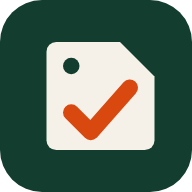
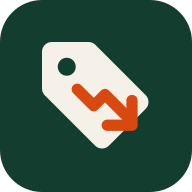
3.5.1: Herkese açık site ve Telegram kanalı Düşero markasına geçti
- Varsayılan site adı Düşero; kayıtlı ayarda eski varsayılan (Teyitli Fırsat) varsa açılışta otomatik geçiş
- Yeni ikon (fiyatı düşen etiket), 192/512 PNG yeniden üretildi
- Telegram paylaşımlarına Düşero imzası
- Kurulum metni, README ve testler güncellendi (28 test geçiyor)

Claude-Session: https://claude.ai/code/session_01BGhwwfiTN87e9gj1dD7XfM

diff --git a/yayin.py b/yayin.py
@@ -1,5 +1,5 @@
 # -*- coding: utf-8 -*-
-"""Kasım Fırsatları — herkese açık site yayıncısı (Teyitli Fırsat).
+"""Kasım Fırsatları — herkese açık site yayıncısı (Düşero).
 
 Bilgisayardaki program mağazada doğruladığı fırsatları buradan herkese açık siteye gönderir:
   1. Seçim     : yalnızca mağazada fiyatı teyit edilmiş, gerçekten indirimli, taze ürünler
@@ -30,12 +30,13 @@ TAZE_SN = 6 * 3600               # mağazadaki teyidi bundan eski ürün yayınd
 EN_FAZLA_URUN = 150
 EN_DUSUK_INDIRIM = 10            # %10'dan az indirim "fırsat" sayılmaz (dip fiyat / Akakçe en ucuzu hariç)
 TELEGRAM_TUR_BASINA = 8
+ESKI_SITE_ADLARI = {"Teyitli Fırsat"}   # eski varsayılan ad; kayıtlı ayarda buysa Düşero'ya geçilir
 VARSAYILAN = {
-    "site_adi": "Teyitli Fırsat",
+    "site_adi": "Düşero",
     "slogan": "Fiyatı mağazada teyit edilmiş indirimler",
     "github": {"depo": "", "token": "", "dal": "main"},
     "iletisim": "",               # yasal sayfada görünen e-posta (içerik kaldırma talepleri için)
-    "alan_adi": "",               # özel alan adı (ör. teyitlifirsat.com); boşsa github.io adresi
+    "alan_adi": "",               # özel alan adı (ör. dusero.com); boşsa github.io adresi
     "telegram": {"bot_token": "", "kanal": ""},
     # Mağaza başına ortaklık ayarı. İki biçim:
     #   {"param": {"tag": "ornek-21"}}                       → linke parametre eklenir
@@ -268,7 +269,8 @@ def telegram_metni(o, site_adi):
     if o.get("kosul"):
         satirlar.append(f"⚠ {html.escape(o['kosul'])}")
     satirlar += ["", f'<a href="{html.escape(o["link"])}">👉 Mağazada gör</a>']
-    satirlar.append("<i>Fiyat ve stok anlık değişebilir.</i>" + (" #işbirliği" if o.get("ortaklik") else ""))
+    satirlar.append(f"🔻 <b>{html.escape(site_adi or VARSAYILAN['site_adi'])}</b> · <i>Fiyat ve stok anlık değişebilir.</i>"
+                    + (" #işbirliği" if o.get("ortaklik") else ""))
     return "\n".join(satirlar)
 
 
@@ -291,6 +293,14 @@ def telegram_gonder(tg, o, site_adi):
 # ---------------------------------------------------------------------------
 # Yayıncı
 # ---------------------------------------------------------------------------
+def marka_guncelle(ayar):
+    """Eski varsayılan site adını (Teyitli Fırsat) Düşero yapar. Kullanıcının kendi koyduğu ada dokunmaz."""
+    if (ayar.get("site_adi") or "").strip() in ESKI_SITE_ADLARI:
+        ayar["site_adi"] = VARSAYILAN["site_adi"]
+        return True
+    return False
+
+
 class Yayinci:
     def __init__(self, depo, veri_dizini, sablon_dizini, surum):
         self.depo, self.sablon, self.surum = depo, sablon_dizini, surum
@@ -299,6 +309,8 @@ class Yayinci:
         self.ayar = self._oku(self.ayar_yolu, {})
         for k, v in VARSAYILAN.items():
             self.ayar.setdefault(k, json.loads(json.dumps(v)))
+        if marka_guncelle(self.ayar) and os.path.exists(self.ayar_yolu):
+            self.ayarlari_kaydet()
         self.durum = self._oku(self.durum_yolu, {"hashler": {}, "ozet": None, "son": 0, "gonderilen": {}})
         self.son_hata, self.son_sayi = None, 0
         self.tetik = threading.Event()
@@ -422,6 +434,7 @@ def kurulum_sihirbazi(veri_dizini):
     ayar = Yayinci._oku(yol, {})
     for k, v in VARSAYILAN.items():
         ayar.setdefault(k, json.loads(json.dumps(v)))
+    marka_guncelle(ayar)
 
     def sor(soru, mevcut="", gizli=False):
         ipucu = f" [{'(kayıtlı)' if gizli and mevcut else mevcut}]" if mevcut else ""
@@ -430,13 +443,13 @@ def kurulum_sihirbazi(veri_dizini):
 
     print("\n=== Herkese açık site kurulumu ===  (boş bırakırsanız köşeli parantezdeki değer kalır)\n")
     ayar["site_adi"] = sor("Site adı", ayar["site_adi"])
-    ayar["github"]["depo"] = sor("GitHub deposu (kullanıcı/depo, ör. ftastan33-beep/teyitli-firsat)", ayar["github"]["depo"])
+    ayar["github"]["depo"] = sor("GitHub deposu (kullanıcı/depo, ör. ftastan33-beep/dusero)", ayar["github"]["depo"])
     ayar["github"]["token"] = sor("GitHub anahtarı (yapıştırın, ekranda görünmez)", ayar["github"]["token"], gizli=True)
     ayar["iletisim"] = sor("Sitede görünecek iletişim e-postası", ayar.get("iletisim", ""))
     ayar["alan_adi"] = sor("Özel alan adı (yoksa boş geçin)", ayar.get("alan_adi", ""))
     if input("Telegram kanalına da otomatik paylaşılsın mı? (e/h) [h]: ").strip().lower().startswith("e"):
         ayar["telegram"]["bot_token"] = sor("Telegram bot anahtarı (BotFather'dan)", ayar["telegram"]["bot_token"], gizli=True)
-        ayar["telegram"]["kanal"] = sor("Kanal kullanıcı adı (ör. @teyitlifirsat)", ayar["telegram"]["kanal"])
+        ayar["telegram"]["kanal"] = sor("Kanal kullanıcı adı (ör. @dusero)", ayar["telegram"]["kanal"])
     print("\nGitHub bağlantısı deneniyor...")
     try:
         d = _gh(ayar["github"]["token"], "GET", f"/repos/{ayar['github']['depo']}")

diff --git a/tests/test_yayin.py b/tests/test_yayin.py
@@ -90,15 +90,15 @@ class Secim(unittest.TestCase):
 
 class Site(unittest.TestCase):
     def test_dosyalar_ve_yer_tutucular(self):
-        ayar = dict(yayin.VARSAYILAN, telegram={"kanal": "@teyitli", "bot_token": ""}, iletisim="info@ornek.com")
+        ayar = dict(yayin.VARSAYILAN, telegram={"kanal": "@dusero", "bot_token": ""}, iletisim="info@ornek.com")
         d = yayin.site_dosyalari(SABLON, ayar, yayin.yayin_listesi([ornek()], {}), "3.1")
         for yol in ("index.html", "app.js", "sw.js", "stil.css", "manifest.webmanifest", "ikon-192.png", "yasal.html", "veri.json", ".nojekyll"):
             self.assertIn(yol, d)
         for yol, icerik in d.items():
             if yol.endswith((".html", ".js", ".css", ".webmanifest")):
                 self.assertNotIn(b"{{", icerik, yol)
-        self.assertIn("Teyitli Fırsat".encode(), d["index.html"])
-        self.assertIn(b"t.me/teyitli", d["index.html"])
+        self.assertIn("Düşero".encode(), d["index.html"])
+        self.assertIn(b"t.me/dusero", d["index.html"])
         self.assertIn(b"mailto:info@ornek.com", d["yasal.html"])
         self.assertEqual(len(json.loads(d["veri.json"])["urunler"]), 1)
 
@@ -156,6 +156,32 @@ class Yukleme(unittest.TestCase):
             yayin.github_yukle, yayin.telegram_gonder = eski_y, eski_t
         self.assertIn("index.html", yuklenen[0])
         self.assertEqual(gonderilen, [])                      # ilk çalıştırmada eldeki liste kanala dökülmez
+
+
+class Marka(unittest.TestCase):
+    def test_eski_varsayilan_ad_duseroya_gecer(self):
+        ayar = {"site_adi": "Teyitli Fırsat"}
+        self.assertTrue(yayin.marka_guncelle(ayar))
+        self.assertEqual(ayar["site_adi"], "Düşero")
+
+    def test_kullanicinin_kendi_adina_dokunulmaz(self):
+        ayar = {"site_adi": "Benim Sitem"}
+        self.assertFalse(yayin.marka_guncelle(ayar))
+        self.assertEqual(ayar["site_adi"], "Benim Sitem")
+
+    def test_kayitli_ayar_acilista_guncellenir(self):
+        import tempfile
+        with tempfile.TemporaryDirectory() as d:
+            with open(os.path.join(d, "yayin.json"), "w", encoding="utf-8") as f:
+                json.dump({"site_adi": "Teyitli Fırsat", "slogan": "x"}, f)
+            y = yayin.Yayinci(None, d, SABLON, "3.5.1")
+            self.assertEqual(y.ayar["site_adi"], "Düşero")
+            with open(os.path.join(d, "yayin.json"), encoding="utf-8") as f:
+                self.assertEqual(json.load(f)["site_adi"], "Düşero")
+
+    def test_telegram_mesajinda_marka(self):
+        o = yayin.yayin_listesi([ornek()], {})[0]
+        self.assertIn("Düşero", yayin.telegram_metni(o, "Düşero"))
 
 
 if __name__ == "__main__":

diff --git a/kasim_firsat.py b/kasim_firsat.py
@@ -51,7 +51,7 @@ from email.utils import parsedate_to_datetime
 from http.cookies import SimpleCookie
 from http.server import BaseHTTPRequestHandler, ThreadingHTTPServer
 
-SURUM = "3.5"
+SURUM = "3.5.1"
 GITHUB_ACTIONS = bool(os.environ.get("GITHUB_ACTIONS"))   # GitHub sunucusunda mı çalışıyor (veri merkezi IP'si)
 VARSAYILAN_PORT = 8765
 VERI_DIZINI = os.environ.get("KASIM_FIRSAT_DIZIN") or os.path.join(os.path.expanduser("~"), ".kasim_firsat")

diff --git a/README.md b/README.md
@@ -76,7 +76,7 @@ Ortam değişkenleri: `KF_DOGRULAMA_SN` (sitede doğrulamaya ayrılan süre, var
 
 Testler: `python -m unittest discover -s tests -v`
 
-## 3.2 — Herkese açık site ve uygulama (Teyitli Fırsat)
+## 3.2 — Herkese açık site ve uygulama (Düşero)
 
 Bilgisayardaki program doğruladığı fırsatları 10 dakikada bir herkese açık siteye gönderir (`yayin.py`, şablon `site/`).
 Site GitHub Pages'te ücretsiz yayınlanır ve telefona uygulama olarak (PWA) kurulabilir.
@@ -172,3 +172,12 @@ fiyat geçmişi girdileri ve karşılaştırmalar bir kez silinir, sonraki yenil
 - Programın fiyat kaydına göre indirim artık tek bir uç değere değil, kayıtların ortancasına göre hesaplanır. Az kayıtla
   %50+ çıkan oranlar (genelde farklı paket/varyant) indirim sayılmaz, “kontrol et” olarak işaretlenir.
 - Başlığı yalnızca bağlantı (“🛒 https://…”) olan paylaşımlarda ürün adı doğru satırdan alınır.
+
+## 3.5.1 — Düşero markası
+
+- Herkese açık sitenin ve uygulamanın adı **Düşero** oldu; yeni ikon: fiyatı düşen etiket.
+- Daha önce kurulumda ad olarak eski varsayılan “Teyitli Fırsat” kaldıysa program açılışta kendiliğinden Düşero'ya geçer.
+  Kendi koyduğunuz başka bir ad varsa değiştirilmez.
+- Telegram paylaşımlarının altına “🔻 Düşero” imzası eklendi.
+- Telefona kurulu uygulama sürüm değiştiği için yeni ad ve ikonu bir sonraki açılışta alır
+  (ana ekran ikonu bazı telefonlarda ancak uygulama kaldırılıp yeniden eklenince yenilenir).
